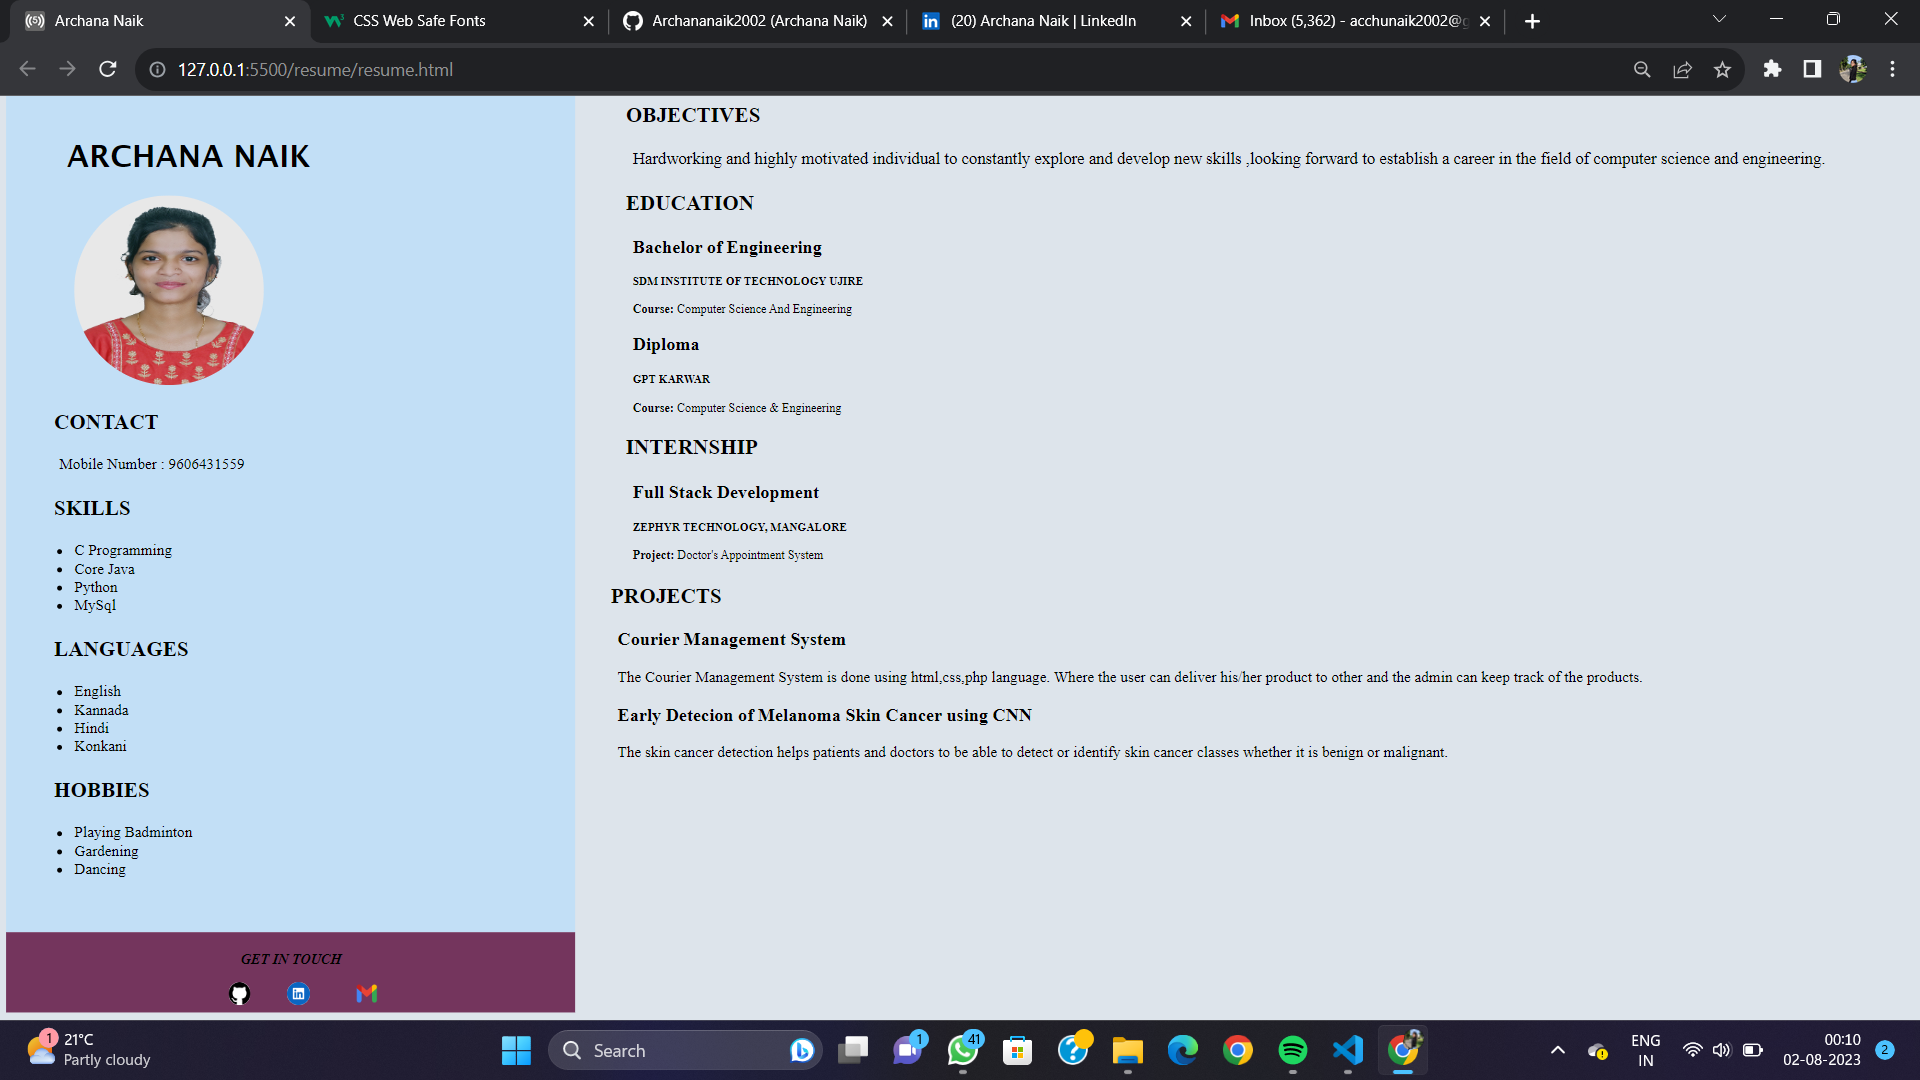
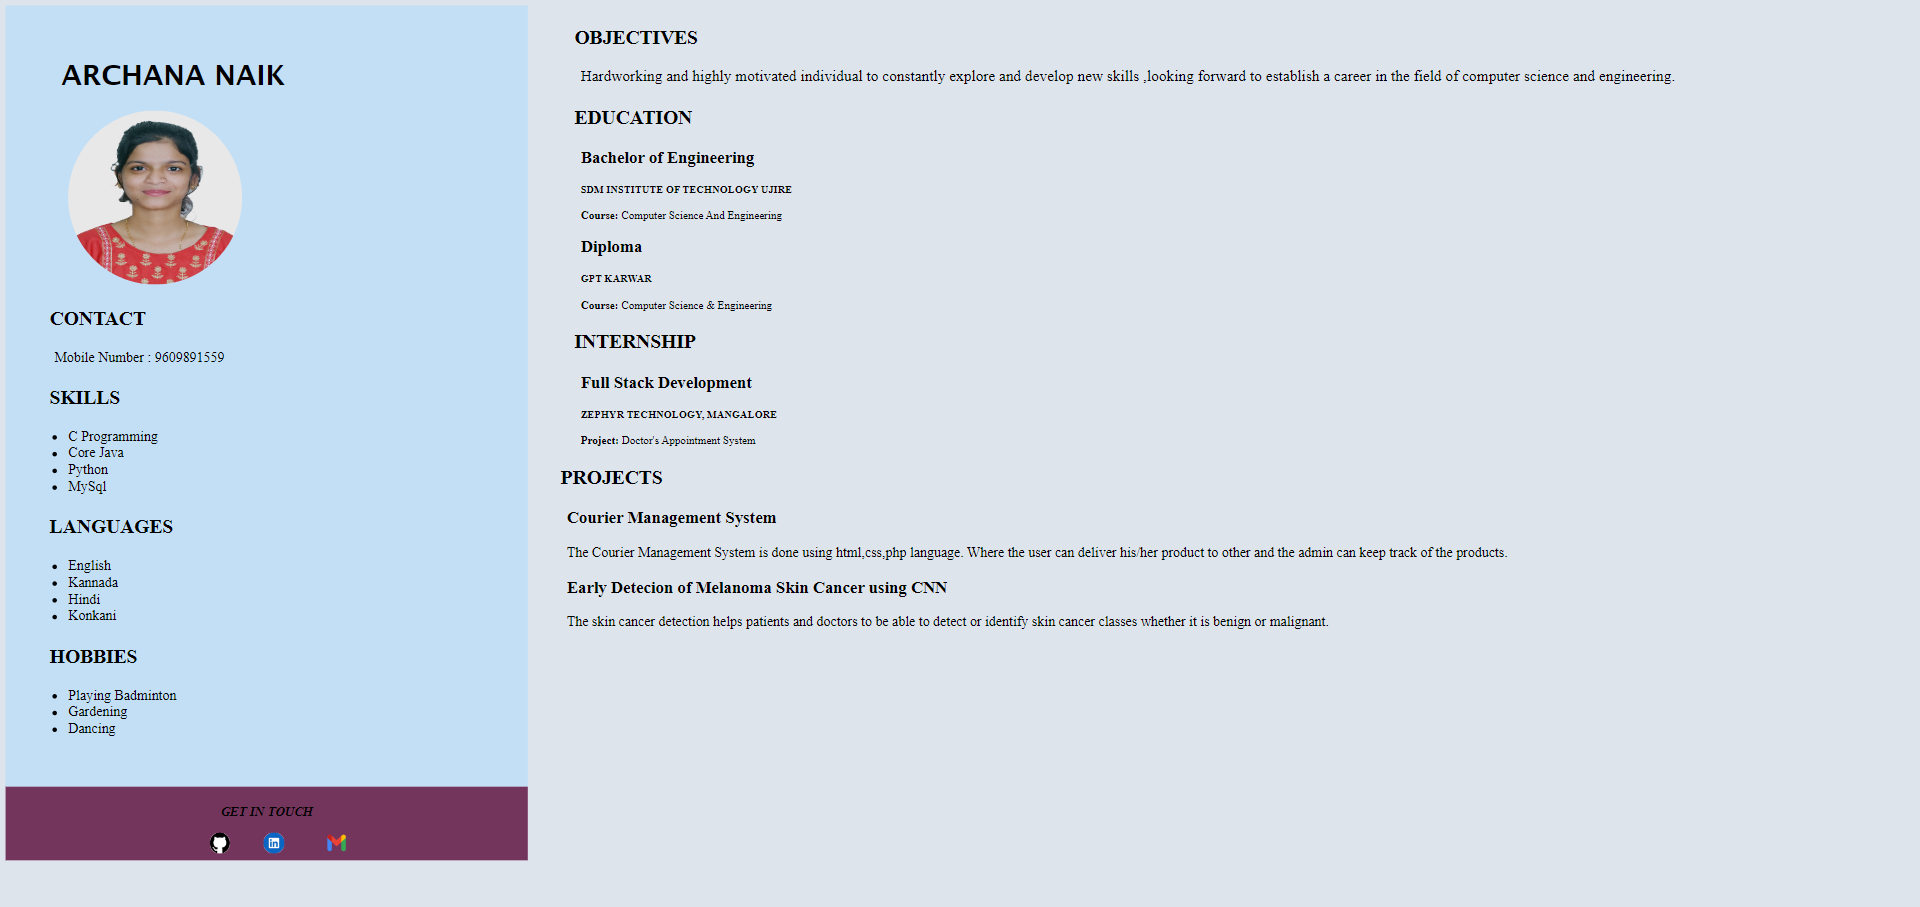
Resume added succefully

Changed region(s): [[0.0, 0.0, 1.0, 1.0], [0.0312, 0.1235, 0.1562, 0.8335]]

diff --git a/assignments/resume/resume.html b/assignments/resume/resume.html
@@ -16,7 +16,7 @@
                     
                     <div class="Contact">
                         <p class="cont">CONTACT</p>
-                        <p class="mobile">Mobile Number : 9606431559</p>
+                        <p class="mobile">Mobile Number : 9609891559</p>
                         
                     </div>
                     <div class="Skills">
